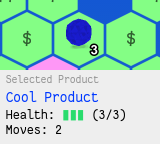
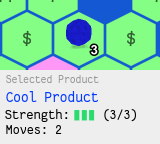
rehauled market onboarding, closes #109

Changed region(s): [[0.0312, 0.75, 0.875, 0.8611]]

diff --git a/css/main.css b/css/main.css
@@ -378,7 +378,7 @@ header h1 {
   width: 1px;
   height: 1px;
   background: transparent;
-  box-shadow: 1963px 1319px #FFF , 413px 474px #FFF , 157px 139px #FFF , 485px 1217px #FFF , 820px 854px #FFF , 301px 70px #FFF , 1500px 813px #FFF , 229px 271px #FFF , 1861px 606px #FFF , 882px 374px #FFF , 973px 749px #FFF , 1426px 699px #FFF , 1131px 1971px #FFF , 1193px 604px #FFF , 729px 983px #FFF , 1017px 1164px #FFF , 544px 886px #FFF , 1809px 814px #FFF , 1915px 762px #FFF , 1876px 1901px #FFF , 1031px 116px #FFF , 1562px 1389px #FFF , 1959px 694px #FFF , 130px 716px #FFF , 1899px 1333px #FFF , 731px 1207px #FFF , 1022px 1053px #FFF , 1223px 1163px #FFF , 1441px 1915px #FFF , 1022px 1643px #FFF , 1618px 1953px #FFF , 419px 1647px #FFF , 711px 1490px #FFF , 815px 800px #FFF , 604px 1042px #FFF , 1567px 449px #FFF , 1785px 667px #FFF , 1248px 1988px #FFF , 1599px 601px #FFF , 499px 672px #FFF , 1385px 1032px #FFF , 1189px 190px #FFF , 1998px 1540px #FFF , 168px 651px #FFF , 1888px 1414px #FFF , 366px 1065px #FFF , 1101px 121px #FFF , 578px 209px #FFF , 1843px 690px #FFF , 1129px 1795px #FFF , 1299px 541px #FFF , 1222px 1141px #FFF , 937px 1354px #FFF , 360px 535px #FFF , 1651px 1348px #FFF , 28px 1856px #FFF , 445px 554px #FFF , 1629px 1279px #FFF , 815px 25px #FFF , 1834px 389px #FFF , 1495px 496px #FFF , 1685px 903px #FFF , 42px 638px #FFF , 546px 669px #FFF , 209px 172px #FFF , 1354px 1218px #FFF , 1837px 1912px #FFF , 953px 344px #FFF , 647px 245px #FFF , 1295px 709px #FFF , 173px 1561px #FFF , 1850px 1547px #FFF , 1922px 1456px #FFF , 1704px 1780px #FFF , 437px 920px #FFF , 281px 1518px #FFF , 150px 1303px #FFF , 990px 1349px #FFF , 1989px 3px #FFF , 1663px 1904px #FFF , 1060px 85px #FFF , 1588px 876px #FFF , 50px 880px #FFF , 1223px 1425px #FFF , 1069px 665px #FFF , 1291px 309px #FFF , 917px 1989px #FFF , 915px 1571px #FFF , 1888px 751px #FFF , 1896px 1145px #FFF , 129px 107px #FFF , 1431px 660px #FFF , 394px 680px #FFF , 98px 655px #FFF , 266px 699px #FFF , 1094px 62px #FFF , 1893px 953px #FFF , 1627px 1492px #FFF , 953px 748px #FFF , 400px 1126px #FFF , 798px 730px #FFF , 1317px 1102px #FFF , 1736px 1073px #FFF , 586px 126px #FFF , 1197px 1172px #FFF , 1997px 1265px #FFF , 1222px 1509px #FFF , 1147px 1368px #FFF , 371px 936px #FFF , 282px 45px #FFF , 1853px 561px #FFF , 1340px 1061px #FFF , 888px 121px #FFF , 920px 27px #FFF , 422px 1081px #FFF , 833px 785px #FFF , 1964px 1882px #FFF , 339px 324px #FFF , 1139px 400px #FFF , 1703px 1537px #FFF , 1508px 972px #FFF , 1466px 1567px #FFF , 1938px 1590px #FFF , 779px 941px #FFF , 1704px 403px #FFF , 564px 1241px #FFF , 106px 1773px #FFF , 1483px 264px #FFF , 417px 1784px #FFF , 522px 1766px #FFF , 1983px 1686px #FFF , 464px 45px #FFF , 932px 255px #FFF , 662px 1893px #FFF , 1951px 1259px #FFF , 574px 1245px #FFF , 1167px 1083px #FFF , 167px 1289px #FFF , 848px 1944px #FFF , 537px 366px #FFF , 1536px 972px #FFF , 125px 374px #FFF , 860px 486px #FFF , 1527px 1994px #FFF , 350px 593px #FFF , 1008px 1918px #FFF , 88px 1056px #FFF , 1927px 804px #FFF , 512px 1111px #FFF , 703px 736px #FFF , 1017px 1758px #FFF , 848px 1606px #FFF , 247px 925px #FFF , 152px 616px #FFF , 593px 586px #FFF , 916px 64px #FFF , 111px 1997px #FFF , 1983px 1372px #FFF , 1793px 281px #FFF , 829px 1428px #FFF , 1011px 232px #FFF , 113px 1293px #FFF , 209px 1741px #FFF , 535px 1875px #FFF , 1787px 1859px #FFF , 970px 1064px #FFF , 1001px 287px #FFF , 1916px 1531px #FFF , 552px 1929px #FFF , 1791px 176px #FFF , 1216px 564px #FFF , 1152px 683px #FFF , 1529px 340px #FFF , 147px 482px #FFF , 564px 909px #FFF , 153px 1619px #FFF , 840px 1332px #FFF , 1890px 1335px #FFF , 1007px 1062px #FFF , 1556px 1261px #FFF , 1156px 907px #FFF , 1320px 1495px #FFF , 1089px 1657px #FFF , 568px 1290px #FFF , 392px 415px #FFF , 1971px 1007px #FFF , 430px 1432px #FFF , 1597px 1828px #FFF , 694px 653px #FFF , 571px 104px #FFF , 1935px 1003px #FFF , 1617px 333px #FFF , 787px 990px #FFF , 1392px 1245px #FFF , 431px 694px #FFF , 92px 1584px #FFF , 981px 1964px #FFF , 220px 1925px #FFF , 980px 1840px #FFF , 1917px 331px #FFF , 1598px 39px #FFF , 387px 1448px #FFF , 1447px 710px #FFF , 1259px 96px #FFF , 1906px 551px #FFF , 1424px 1085px #FFF , 742px 1367px #FFF , 853px 1337px #FFF , 1790px 903px #FFF , 702px 202px #FFF , 1486px 785px #FFF , 1832px 604px #FFF , 1977px 702px #FFF , 25px 572px #FFF , 857px 1671px #FFF , 1335px 133px #FFF , 1940px 701px #FFF , 127px 1987px #FFF , 307px 786px #FFF , 647px 1222px #FFF , 784px 1865px #FFF , 679px 1832px #FFF , 1463px 1629px #FFF , 1572px 1055px #FFF , 1384px 297px #FFF , 747px 1987px #FFF , 1692px 934px #FFF , 1792px 1214px #FFF , 1254px 1233px #FFF , 1088px 253px #FFF , 1522px 1836px #FFF , 624px 100px #FFF , 777px 521px #FFF , 624px 1723px #FFF , 187px 9px #FFF , 1406px 370px #FFF , 1249px 1559px #FFF , 328px 963px #FFF , 1012px 1630px #FFF , 1348px 233px #FFF , 1360px 989px #FFF , 91px 343px #FFF , 458px 538px #FFF , 1273px 1385px #FFF , 335px 743px #FFF , 744px 1670px #FFF , 1578px 1742px #FFF , 242px 1765px #FFF , 1273px 1604px #FFF , 1997px 1339px #FFF , 1991px 218px #FFF , 1500px 550px #FFF , 1136px 790px #FFF , 1925px 1207px #FFF , 1693px 1494px #FFF , 1915px 1312px #FFF , 1880px 501px #FFF , 1964px 167px #FFF , 1637px 1752px #FFF , 63px 1253px #FFF , 1366px 1422px #FFF , 309px 364px #FFF , 1454px 454px #FFF , 1718px 205px #FFF , 1748px 830px #FFF , 1032px 749px #FFF , 26px 562px #FFF , 1491px 1924px #FFF , 503px 1123px #FFF , 4px 613px #FFF , 1889px 1012px #FFF , 1942px 574px #FFF , 1873px 75px #FFF , 91px 723px #FFF , 288px 76px #FFF , 134px 1404px #FFF , 1974px 289px #FFF , 1824px 595px #FFF , 1372px 724px #FFF , 205px 1758px #FFF , 1889px 492px #FFF , 1909px 749px #FFF , 32px 1076px #FFF , 1977px 197px #FFF , 1089px 1245px #FFF , 762px 717px #FFF , 1761px 1305px #FFF , 211px 1651px #FFF , 537px 721px #FFF , 74px 946px #FFF , 1306px 889px #FFF , 923px 1486px #FFF , 1294px 832px #FFF , 1832px 1775px #FFF , 797px 254px #FFF , 447px 821px #FFF , 22px 363px #FFF , 682px 1155px #FFF , 1256px 147px #FFF , 804px 98px #FFF , 1113px 1504px #FFF , 488px 849px #FFF , 342px 652px #FFF , 760px 1724px #FFF , 843px 1299px #FFF , 463px 1009px #FFF , 103px 770px #FFF , 1865px 740px #FFF , 1278px 1335px #FFF , 1393px 497px #FFF , 1084px 1744px #FFF , 1847px 205px #FFF , 1855px 1916px #FFF , 360px 68px #FFF , 467px 1103px #FFF , 146px 1277px #FFF , 1959px 1038px #FFF , 1040px 1403px #FFF , 247px 1117px #FFF , 761px 617px #FFF , 893px 1514px #FFF , 529px 84px #FFF , 1565px 212px #FFF , 1565px 1698px #FFF , 1543px 984px #FFF , 259px 26px #FFF , 1567px 1349px #FFF , 435px 272px #FFF , 480px 699px #FFF , 1936px 1400px #FFF , 830px 1039px #FFF , 1970px 761px #FFF , 1209px 1587px #FFF , 603px 294px #FFF , 796px 1600px #FFF , 1914px 266px #FFF , 1125px 233px #FFF , 743px 720px #FFF , 454px 759px #FFF , 1649px 1062px #FFF , 780px 1028px #FFF , 704px 1128px #FFF , 1588px 249px #FFF , 3px 1090px #FFF , 1994px 1573px #FFF , 1585px 84px #FFF , 804px 1591px #FFF , 612px 1346px #FFF , 1343px 1638px #FFF , 1719px 153px #FFF , 972px 1220px #FFF , 586px 362px #FFF , 824px 630px #FFF , 1364px 683px #FFF , 1086px 616px #FFF , 1878px 605px #FFF , 767px 310px #FFF , 511px 86px #FFF , 1376px 988px #FFF , 639px 902px #FFF , 443px 868px #FFF , 743px 1998px #FFF , 1655px 1058px #FFF , 781px 640px #FFF , 584px 1780px #FFF , 321px 157px #FFF , 644px 1960px #FFF , 868px 1763px #FFF , 1031px 76px #FFF , 1635px 898px #FFF , 556px 1441px #FFF , 184px 415px #FFF , 917px 1588px #FFF , 1895px 538px #FFF , 540px 363px #FFF , 1127px 1079px #FFF , 143px 276px #FFF , 1466px 20px #FFF , 1076px 1535px #FFF , 1177px 1485px #FFF , 1050px 1911px #FFF , 174px 87px #FFF , 1125px 1358px #FFF , 70px 1937px #FFF , 393px 790px #FFF , 492px 1797px #FFF , 1353px 92px #FFF , 1805px 539px #FFF , 1238px 1670px #FFF , 190px 1431px #FFF , 1591px 213px #FFF , 745px 108px #FFF , 1746px 878px #FFF , 192px 118px #FFF , 308px 672px #FFF , 1040px 1289px #FFF , 1638px 1070px #FFF , 171px 420px #FFF , 926px 1728px #FFF , 1752px 1409px #FFF , 1648px 1117px #FFF , 293px 1439px #FFF , 544px 1439px #FFF , 167px 1527px #FFF , 763px 1536px #FFF , 1739px 1810px #FFF , 1977px 444px #FFF , 1194px 716px #FFF , 280px 1213px #FFF , 375px 1685px #FFF , 1727px 746px #FFF , 514px 1990px #FFF , 943px 1406px #FFF , 10px 847px #FFF , 1928px 1406px #FFF , 138px 1054px #FFF , 1615px 1031px #FFF , 264px 73px #FFF , 1800px 1331px #FFF , 1159px 1169px #FFF , 1086px 919px #FFF , 1233px 692px #FFF , 1054px 1967px #FFF , 393px 580px #FFF , 1359px 1935px #FFF , 476px 1316px #FFF , 1671px 1118px #FFF , 1460px 1894px #FFF , 367px 358px #FFF , 1524px 1443px #FFF , 1254px 922px #FFF , 1169px 20px #FFF , 1702px 1209px #FFF , 1415px 278px #FFF , 811px 515px #FFF , 649px 1655px #FFF , 1791px 334px #FFF , 1605px 852px #FFF , 877px 187px #FFF , 571px 318px #FFF , 1236px 279px #FFF , 1879px 1605px #FFF , 350px 1325px #FFF , 1283px 1202px #FFF , 775px 1037px #FFF , 1767px 1837px #FFF , 1575px 1029px #FFF , 500px 1860px #FFF , 1345px 1025px #FFF , 1505px 1918px #FFF , 1414px 821px #FFF , 854px 700px #FFF , 1439px 949px #FFF , 1671px 1013px #FFF , 1630px 1172px #FFF , 58px 1975px #FFF , 1946px 1996px #FFF , 1853px 1678px #FFF , 1333px 1664px #FFF , 1091px 1098px #FFF , 1769px 50px #FFF , 1324px 531px #FFF , 733px 632px #FFF , 601px 1835px #FFF , 1692px 1533px #FFF , 313px 852px #FFF , 1946px 322px #FFF , 1244px 1288px #FFF , 588px 1704px #FFF , 1332px 147px #FFF , 401px 1297px #FFF , 457px 1352px #FFF , 753px 1779px #FFF , 1064px 1843px #FFF , 662px 515px #FFF , 144px 1452px #FFF , 1465px 91px #FFF , 1287px 41px #FFF , 482px 704px #FFF , 1968px 1659px #FFF , 1647px 1460px #FFF , 1508px 1254px #FFF , 72px 1182px #FFF , 1019px 1657px #FFF , 64px 961px #FFF , 1714px 1016px #FFF , 715px 1820px #FFF , 1508px 1968px #FFF , 640px 1013px #FFF , 248px 509px #FFF , 1719px 1229px #FFF , 668px 1069px #FFF , 1862px 781px #FFF , 1648px 752px #FFF , 1685px 382px #FFF , 33px 656px #FFF , 943px 1317px #FFF , 1182px 810px #FFF , 539px 1647px #FFF , 1610px 1810px #FFF , 416px 1623px #FFF , 1281px 669px #FFF , 1968px 256px #FFF , 301px 539px #FFF , 91px 908px #FFF , 1315px 533px #FFF , 1317px 1268px #FFF , 288px 305px #FFF , 278px 414px #FFF , 467px 1307px #FFF , 1817px 1292px #FFF , 258px 337px #FFF , 1305px 1759px #FFF , 1019px 1213px #FFF , 762px 1278px #FFF , 1888px 808px #FFF , 428px 355px #FFF , 1122px 1722px #FFF , 77px 581px #FFF , 1251px 470px #FFF , 1899px 1119px #FFF , 1120px 1569px #FFF , 180px 1072px #FFF , 1924px 947px #FFF , 121px 361px #FFF , 406px 473px #FFF , 1524px 986px #FFF , 131px 284px #FFF , 1565px 1396px #FFF , 1388px 406px #FFF , 577px 1619px #FFF , 1145px 646px #FFF , 1413px 1945px #FFF , 1285px 1523px #FFF , 1139px 532px #FFF , 150px 744px #FFF , 1677px 1457px #FFF , 1679px 1034px #FFF , 39px 1745px #FFF , 811px 1494px #FFF , 1368px 1379px #FFF , 239px 463px #FFF , 904px 1010px #FFF , 456px 1766px #FFF , 1466px 364px #FFF , 242px 1892px #FFF , 178px 1650px #FFF , 1365px 1474px #FFF , 392px 1272px #FFF , 888px 468px #FFF , 1079px 1305px #FFF , 958px 322px #FFF , 1051px 63px #FFF , 1935px 1585px #FFF , 1977px 839px #FFF , 1695px 780px #FFF , 724px 1981px #FFF , 1903px 705px #FFF , 7px 529px #FFF , 1665px 1530px #FFF , 1832px 1439px #FFF , 656px 994px #FFF , 816px 717px #FFF , 126px 219px #FFF , 1265px 1079px #FFF , 447px 285px #FFF , 1405px 986px #FFF , 250px 1705px #FFF , 823px 297px #FFF , 1942px 41px #FFF , 315px 1781px #FFF , 1670px 295px #FFF , 1615px 1437px #FFF , 1895px 1466px #FFF , 1045px 24px #FFF , 1359px 1582px #FFF , 1258px 880px #FFF , 1291px 524px #FFF , 1912px 111px #FFF , 1795px 378px #FFF , 300px 1730px #FFF , 71px 1616px #FFF , 300px 849px #FFF , 169px 550px #FFF , 864px 444px #FFF , 677px 350px #FFF , 564px 1704px #FFF , 1564px 1898px #FFF , 1619px 1258px #FFF , 826px 1217px #FFF , 1898px 201px #FFF , 124px 1190px #FFF , 322px 1621px #FFF , 291px 1476px #FFF , 1700px 1483px #FFF , 260px 1342px #FFF , 748px 1358px #FFF , 872px 829px #FFF , 1997px 1177px #FFF , 1092px 313px #FFF , 1936px 325px #FFF , 304px 1182px #FFF , 1706px 1549px #FFF , 1998px 1746px #FFF , 1016px 1842px #FFF , 1406px 1766px #FFF , 580px 419px #FFF , 1681px 1587px #FFF , 192px 182px #FFF , 1277px 1205px #FFF , 30px 1769px #FFF , 872px 1320px #FFF , 1234px 1265px #FFF , 1614px 1577px #FFF , 1657px 1723px #FFF , 995px 1552px #FFF , 1000px 1742px #FFF , 1050px 868px #FFF , 60px 550px #FFF , 218px 1991px #FFF , 1086px 1267px #FFF , 73px 19px #FFF , 1173px 264px #FFF , 1668px 1682px #FFF , 1318px 1626px #FFF , 1192px 1928px #FFF , 168px 1846px #FFF , 1450px 463px #FFF , 805px 1322px #FFF , 627px 894px #FFF , 1756px 1323px #FFF , 252px 946px #FFF , 1063px 1021px #FFF , 1663px 819px #FFF , 40px 898px #FFF , 1046px 553px #FFF , 51px 526px #FFF , 1572px 1530px #FFF , 186px 300px #FFF , 866px 884px #FFF , 947px 1264px #FFF , 1670px 903px #FFF , 600px 1193px #FFF , 85px 1712px #FFF , 1752px 1690px #FFF , 1132px 1596px #FFF , 469px 1951px #FFF , 1005px 1649px #FFF , 1960px 104px #FFF , 1319px 1029px #FFF , 890px 1685px #FFF , 1594px 728px #FFF , 1817px 1129px #FFF , 1905px 1264px #FFF , 1261px 1029px #FFF , 1780px 1054px #FFF , 100px 678px #FFF , 1900px 953px #FFF , 1930px 361px #FFF , 502px 371px #FFF , 1585px 1205px #FFF , 1582px 161px #FFF , 1024px 538px #FFF , 970px 675px #FFF , 482px 489px #FFF , 1252px 404px #FFF , 333px 64px #FFF , 1159px 1761px #FFF , 1280px 1217px #FFF , 1411px 206px #FFF , 993px 660px #FFF , 693px 1529px #FFF , 1536px 793px #FFF , 926px 970px #FFF , 355px 705px #FFF , 1749px 183px #FFF , 801px 428px #FFF , 1233px 207px #FFF , 1427px 17px #FFF , 1688px 719px #FFF , 382px 746px #FFF , 902px 823px #FFF , 557px 88px #FFF , 1751px 1246px #FFF , 1804px 1255px #FFF , 347px 726px #FFF , 534px 620px #FFF , 94px 1712px #FFF , 597px 1317px #FFF , 494px 849px #FFF , 758px 1678px #FFF , 641px 646px #FFF , 223px 45px #FFF , 1588px 1350px #FFF , 773px 1183px #FFF , 63px 1927px #FFF , 94px 1374px #FFF , 1272px 940px #FFF , 1770px 618px #FFF , 1410px 426px #FFF; }
+  box-shadow: 1773px 909px #FFF , 573px 15px #FFF , 1936px 793px #FFF , 1799px 15px #FFF , 196px 1023px #FFF , 1502px 1383px #FFF , 1146px 390px #FFF , 1077px 823px #FFF , 1038px 678px #FFF , 1595px 399px #FFF , 1292px 1781px #FFF , 1117px 1055px #FFF , 1995px 104px #FFF , 1009px 791px #FFF , 125px 482px #FFF , 1253px 405px #FFF , 286px 1552px #FFF , 707px 1774px #FFF , 239px 1254px #FFF , 1861px 1918px #FFF , 1188px 1720px #FFF , 1656px 657px #FFF , 1222px 481px #FFF , 308px 1654px #FFF , 523px 1412px #FFF , 976px 80px #FFF , 679px 559px #FFF , 1262px 316px #FFF , 1962px 50px #FFF , 1871px 90px #FFF , 1848px 1458px #FFF , 1642px 275px #FFF , 1849px 1962px #FFF , 364px 1592px #FFF , 1894px 1558px #FFF , 464px 383px #FFF , 1260px 947px #FFF , 1574px 1436px #FFF , 1881px 1550px #FFF , 1641px 300px #FFF , 190px 1551px #FFF , 1164px 305px #FFF , 1635px 421px #FFF , 232px 1872px #FFF , 744px 1744px #FFF , 46px 256px #FFF , 686px 1405px #FFF , 1153px 1166px #FFF , 1523px 338px #FFF , 542px 1338px #FFF , 630px 1040px #FFF , 902px 1814px #FFF , 19px 1747px #FFF , 1302px 793px #FFF , 590px 571px #FFF , 958px 1582px #FFF , 1181px 354px #FFF , 720px 847px #FFF , 390px 1002px #FFF , 1906px 105px #FFF , 755px 1183px #FFF , 1965px 1463px #FFF , 781px 647px #FFF , 1532px 606px #FFF , 12px 1422px #FFF , 186px 1310px #FFF , 664px 1440px #FFF , 1452px 423px #FFF , 1734px 706px #FFF , 879px 263px #FFF , 3px 1357px #FFF , 150px 1214px #FFF , 1615px 826px #FFF , 1093px 1357px #FFF , 624px 1370px #FFF , 536px 716px #FFF , 578px 231px #FFF , 477px 1862px #FFF , 535px 1084px #FFF , 1118px 19px #FFF , 1957px 129px #FFF , 943px 585px #FFF , 1907px 1813px #FFF , 866px 1048px #FFF , 366px 1419px #FFF , 1793px 1016px #FFF , 850px 715px #FFF , 694px 989px #FFF , 137px 1446px #FFF , 1870px 292px #FFF , 459px 602px #FFF , 570px 329px #FFF , 1697px 1708px #FFF , 24px 234px #FFF , 1281px 506px #FFF , 1886px 649px #FFF , 1604px 1488px #FFF , 1557px 1016px #FFF , 1287px 1731px #FFF , 168px 1288px #FFF , 770px 765px #FFF , 835px 360px #FFF , 111px 986px #FFF , 214px 1248px #FFF , 585px 1290px #FFF , 73px 115px #FFF , 1021px 947px #FFF , 1423px 508px #FFF , 1156px 1813px #FFF , 69px 1786px #FFF , 1338px 1073px #FFF , 1281px 1282px #FFF , 1824px 1051px #FFF , 1163px 1571px #FFF , 1224px 339px #FFF , 1216px 1104px #FFF , 488px 1430px #FFF , 1816px 1523px #FFF , 5px 1103px #FFF , 1234px 1735px #FFF , 1979px 417px #FFF , 1869px 1321px #FFF , 1982px 228px #FFF , 1283px 899px #FFF , 1376px 423px #FFF , 1133px 739px #FFF , 1654px 1270px #FFF , 305px 1100px #FFF , 410px 537px #FFF , 1438px 1791px #FFF , 7px 1280px #FFF , 1419px 1494px #FFF , 891px 142px #FFF , 745px 1891px #FFF , 1509px 851px #FFF , 713px 1258px #FFF , 1942px 790px #FFF , 453px 1321px #FFF , 500px 1325px #FFF , 875px 160px #FFF , 1744px 1756px #FFF , 766px 784px #FFF , 226px 1999px #FFF , 1286px 291px #FFF , 1949px 81px #FFF , 1979px 267px #FFF , 331px 761px #FFF , 1131px 1620px #FFF , 1104px 50px #FFF , 1609px 561px #FFF , 1120px 345px #FFF , 1495px 1482px #FFF , 1855px 1031px #FFF , 813px 785px #FFF , 841px 1961px #FFF , 1571px 356px #FFF , 34px 1036px #FFF , 868px 147px #FFF , 1142px 1690px #FFF , 1622px 422px #FFF , 1445px 1846px #FFF , 1426px 1474px #FFF , 609px 385px #FFF , 1066px 34px #FFF , 864px 99px #FFF , 812px 161px #FFF , 176px 632px #FFF , 663px 1316px #FFF , 1396px 1358px #FFF , 183px 1242px #FFF , 1345px 1113px #FFF , 1463px 1276px #FFF , 889px 1470px #FFF , 694px 780px #FFF , 485px 751px #FFF , 120px 125px #FFF , 1290px 1194px #FFF , 28px 1114px #FFF , 929px 928px #FFF , 1872px 1511px #FFF , 743px 894px #FFF , 382px 367px #FFF , 1034px 1126px #FFF , 1330px 1566px #FFF , 477px 1276px #FFF , 1485px 1799px #FFF , 1673px 1253px #FFF , 866px 1019px #FFF , 501px 1356px #FFF , 690px 859px #FFF , 1169px 355px #FFF , 1826px 1122px #FFF , 96px 1072px #FFF , 480px 1360px #FFF , 492px 1365px #FFF , 1416px 1326px #FFF , 1689px 580px #FFF , 201px 919px #FFF , 1335px 1152px #FFF , 767px 36px #FFF , 1430px 873px #FFF , 1964px 1964px #FFF , 1508px 664px #FFF , 10px 1446px #FFF , 1968px 1444px #FFF , 85px 1413px #FFF , 1203px 968px #FFF , 1711px 429px #FFF , 1251px 1565px #FFF , 1365px 1378px #FFF , 428px 1605px #FFF , 453px 578px #FFF , 1654px 8px #FFF , 772px 744px #FFF , 897px 698px #FFF , 294px 1878px #FFF , 229px 1506px #FFF , 585px 1684px #FFF , 1656px 338px #FFF , 1428px 462px #FFF , 1549px 563px #FFF , 1943px 527px #FFF , 201px 1757px #FFF , 1989px 405px #FFF , 1592px 1084px #FFF , 14px 1977px #FFF , 649px 432px #FFF , 534px 1980px #FFF , 314px 38px #FFF , 1840px 66px #FFF , 201px 1408px #FFF , 1113px 1371px #FFF , 1319px 1649px #FFF , 1095px 1041px #FFF , 147px 401px #FFF , 1426px 1949px #FFF , 1796px 1524px #FFF , 1880px 61px #FFF , 1633px 1954px #FFF , 637px 696px #FFF , 1509px 889px #FFF , 1942px 1412px #FFF , 381px 419px #FFF , 1149px 1230px #FFF , 1161px 1253px #FFF , 1294px 1191px #FFF , 1005px 1174px #FFF , 1537px 849px #FFF , 58px 84px #FFF , 1214px 50px #FFF , 1930px 1692px #FFF , 1173px 1864px #FFF , 1618px 892px #FFF , 741px 1417px #FFF , 1073px 1642px #FFF , 1571px 108px #FFF , 1769px 527px #FFF , 270px 565px #FFF , 789px 425px #FFF , 879px 277px #FFF , 1586px 211px #FFF , 1818px 274px #FFF , 1157px 737px #FFF , 1541px 1621px #FFF , 1119px 1284px #FFF , 1479px 1655px #FFF , 1890px 883px #FFF , 1316px 604px #FFF , 1258px 1287px #FFF , 572px 162px #FFF , 771px 1855px #FFF , 663px 45px #FFF , 778px 1648px #FFF , 1158px 1747px #FFF , 1093px 14px #FFF , 1385px 775px #FFF , 109px 202px #FFF , 277px 752px #FFF , 770px 1877px #FFF , 1202px 687px #FFF , 1453px 102px #FFF , 511px 1181px #FFF , 227px 266px #FFF , 220px 179px #FFF , 624px 246px #FFF , 1733px 317px #FFF , 1896px 165px #FFF , 1044px 995px #FFF , 1587px 919px #FFF , 982px 1296px #FFF , 1044px 1196px #FFF , 1426px 792px #FFF , 1287px 1075px #FFF , 1147px 666px #FFF , 1853px 1575px #FFF , 1862px 678px #FFF , 362px 1692px #FFF , 228px 1656px #FFF , 474px 1255px #FFF , 921px 1317px #FFF , 235px 266px #FFF , 1931px 781px #FFF , 220px 36px #FFF , 1413px 210px #FFF , 656px 1162px #FFF , 185px 410px #FFF , 240px 208px #FFF , 90px 166px #FFF , 1101px 901px #FFF , 1799px 231px #FFF , 260px 1834px #FFF , 1264px 459px #FFF , 1181px 973px #FFF , 1517px 374px #FFF , 1728px 1224px #FFF , 777px 1147px #FFF , 411px 650px #FFF , 1400px 505px #FFF , 1608px 959px #FFF , 1352px 386px #FFF , 238px 87px #FFF , 1753px 1132px #FFF , 1672px 636px #FFF , 545px 546px #FFF , 1590px 182px #FFF , 815px 916px #FFF , 1926px 813px #FFF , 1031px 372px #FFF , 1473px 464px #FFF , 1109px 392px #FFF , 116px 1109px #FFF , 27px 1998px #FFF , 1970px 1930px #FFF , 286px 248px #FFF , 1087px 1371px #FFF , 859px 603px #FFF , 187px 1055px #FFF , 1741px 491px #FFF , 442px 689px #FFF , 1277px 1408px #FFF , 17px 1828px #FFF , 974px 255px #FFF , 494px 330px #FFF , 975px 711px #FFF , 862px 47px #FFF , 1336px 939px #FFF , 1338px 1508px #FFF , 1305px 657px #FFF , 732px 1942px #FFF , 702px 516px #FFF , 1533px 1490px #FFF , 46px 1889px #FFF , 79px 1707px #FFF , 1004px 1653px #FFF , 1540px 297px #FFF , 462px 884px #FFF , 1205px 1059px #FFF , 1393px 1245px #FFF , 692px 1869px #FFF , 155px 1172px #FFF , 939px 1807px #FFF , 1494px 80px #FFF , 1906px 1493px #FFF , 1585px 206px #FFF , 1547px 1487px #FFF , 505px 1314px #FFF , 1584px 125px #FFF , 1635px 40px #FFF , 1543px 1091px #FFF , 1566px 332px #FFF , 1039px 1248px #FFF , 973px 1470px #FFF , 1168px 219px #FFF , 203px 1766px #FFF , 1574px 198px #FFF , 1191px 1402px #FFF , 1635px 184px #FFF , 1826px 1080px #FFF , 826px 529px #FFF , 867px 1582px #FFF , 1493px 1381px #FFF , 816px 725px #FFF , 1975px 182px #FFF , 1057px 729px #FFF , 1261px 1051px #FFF , 564px 1335px #FFF , 347px 1198px #FFF , 1722px 1519px #FFF , 1px 1906px #FFF , 1084px 1001px #FFF , 1757px 757px #FFF , 987px 1363px #FFF , 161px 1264px #FFF , 1185px 830px #FFF , 1638px 648px #FFF , 1313px 53px #FFF , 1387px 833px #FFF , 1415px 1577px #FFF , 906px 984px #FFF , 884px 613px #FFF , 579px 1128px #FFF , 790px 1640px #FFF , 1606px 638px #FFF , 774px 465px #FFF , 498px 147px #FFF , 1474px 1897px #FFF , 1185px 413px #FFF , 466px 486px #FFF , 373px 969px #FFF , 1431px 891px #FFF , 220px 1768px #FFF , 1810px 850px #FFF , 639px 1921px #FFF , 526px 309px #FFF , 1049px 815px #FFF , 882px 1513px #FFF , 973px 996px #FFF , 1210px 221px #FFF , 1549px 1082px #FFF , 1088px 1738px #FFF , 1262px 160px #FFF , 567px 1883px #FFF , 1342px 428px #FFF , 670px 764px #FFF , 1182px 629px #FFF , 1644px 154px #FFF , 1724px 1616px #FFF , 1221px 761px #FFF , 1923px 1011px #FFF , 1542px 838px #FFF , 1606px 121px #FFF , 546px 302px #FFF , 532px 691px #FFF , 1758px 1513px #FFF , 1781px 173px #FFF , 709px 1048px #FFF , 1365px 974px #FFF , 245px 1804px #FFF , 167px 156px #FFF , 83px 3px #FFF , 98px 837px #FFF , 940px 858px #FFF , 891px 983px #FFF , 1688px 1874px #FFF , 300px 1177px #FFF , 605px 1180px #FFF , 572px 1412px #FFF , 1377px 805px #FFF , 602px 1788px #FFF , 1000px 1265px #FFF , 1778px 601px #FFF , 954px 602px #FFF , 164px 1147px #FFF , 1172px 1528px #FFF , 1306px 1389px #FFF , 159px 947px #FFF , 984px 593px #FFF , 848px 960px #FFF , 1605px 1893px #FFF , 612px 1095px #FFF , 1379px 1212px #FFF , 1216px 1845px #FFF , 709px 1546px #FFF , 625px 886px #FFF , 804px 311px #FFF , 720px 1401px #FFF , 588px 1777px #FFF , 1476px 459px #FFF , 1773px 1546px #FFF , 1623px 1783px #FFF , 1055px 300px #FFF , 1253px 644px #FFF , 1936px 1574px #FFF , 951px 1538px #FFF , 898px 1019px #FFF , 205px 1082px #FFF , 109px 883px #FFF , 1348px 839px #FFF , 762px 1602px #FFF , 868px 1853px #FFF , 672px 783px #FFF , 1478px 1349px #FFF , 1860px 1807px #FFF , 1586px 1677px #FFF , 1553px 1433px #FFF , 49px 1451px #FFF , 1803px 497px #FFF , 1334px 1994px #FFF , 358px 186px #FFF , 1979px 1530px #FFF , 1789px 981px #FFF , 214px 55px #FFF , 1175px 1133px #FFF , 500px 435px #FFF , 1499px 540px #FFF , 1351px 1460px #FFF , 60px 1628px #FFF , 1136px 234px #FFF , 500px 1504px #FFF , 624px 831px #FFF , 661px 1790px #FFF , 1812px 439px #FFF , 289px 1301px #FFF , 1283px 687px #FFF , 653px 1634px #FFF , 610px 675px #FFF , 1075px 907px #FFF , 1382px 1367px #FFF , 1551px 1241px #FFF , 489px 307px #FFF , 1496px 818px #FFF , 93px 225px #FFF , 1891px 1299px #FFF , 593px 244px #FFF , 507px 1757px #FFF , 625px 796px #FFF , 1016px 1124px #FFF , 734px 570px #FFF , 187px 285px #FFF , 1437px 1972px #FFF , 478px 334px #FFF , 569px 1712px #FFF , 1910px 111px #FFF , 1120px 1743px #FFF , 1163px 161px #FFF , 96px 1874px #FFF , 498px 469px #FFF , 1452px 245px #FFF , 1243px 1889px #FFF , 1506px 1530px #FFF , 830px 1970px #FFF , 1798px 1570px #FFF , 28px 1954px #FFF , 1950px 1867px #FFF , 458px 1339px #FFF , 1966px 1646px #FFF , 1678px 823px #FFF , 476px 606px #FFF , 997px 82px #FFF , 1152px 376px #FFF , 1886px 149px #FFF , 438px 1915px #FFF , 1177px 1427px #FFF , 388px 701px #FFF , 1403px 210px #FFF , 1154px 168px #FFF , 1918px 2px #FFF , 1579px 498px #FFF , 1062px 919px #FFF , 1178px 1784px #FFF , 1882px 1141px #FFF , 82px 1783px #FFF , 516px 1915px #FFF , 1746px 762px #FFF , 1976px 1599px #FFF , 1052px 1425px #FFF , 1183px 1571px #FFF , 992px 30px #FFF , 1566px 1435px #FFF , 115px 475px #FFF , 486px 378px #FFF , 1049px 462px #FFF , 123px 1088px #FFF , 701px 897px #FFF , 466px 783px #FFF , 432px 1791px #FFF , 1492px 1426px #FFF , 1908px 1199px #FFF , 502px 388px #FFF , 470px 1634px #FFF , 54px 1157px #FFF , 1328px 1200px #FFF , 168px 1949px #FFF , 1888px 768px #FFF , 917px 1396px #FFF , 497px 820px #FFF , 1706px 287px #FFF , 1509px 1508px #FFF , 1513px 884px #FFF , 551px 547px #FFF , 922px 441px #FFF , 115px 845px #FFF , 774px 158px #FFF , 502px 1361px #FFF , 821px 1863px #FFF , 22px 793px #FFF , 1731px 593px #FFF , 1018px 805px #FFF , 910px 1296px #FFF , 1012px 1928px #FFF , 334px 1387px #FFF , 331px 807px #FFF , 1181px 123px #FFF , 1297px 189px #FFF , 1325px 406px #FFF , 610px 938px #FFF , 1855px 222px #FFF , 925px 1725px #FFF , 1929px 1205px #FFF , 1196px 1234px #FFF , 87px 1586px #FFF , 719px 1096px #FFF , 1255px 14px #FFF , 1305px 1807px #FFF , 1213px 226px #FFF , 1974px 1399px #FFF , 1491px 654px #FFF , 1660px 884px #FFF , 356px 1388px #FFF , 563px 733px #FFF , 200px 1533px #FFF , 1189px 1381px #FFF , 1916px 1580px #FFF , 66px 453px #FFF , 1197px 1769px #FFF , 1613px 201px #FFF , 864px 1437px #FFF , 1924px 458px #FFF , 417px 1923px #FFF , 327px 1167px #FFF , 678px 1217px #FFF , 1849px 1285px #FFF , 1856px 235px #FFF , 1917px 1197px #FFF , 836px 1023px #FFF , 898px 1877px #FFF , 619px 1010px #FFF , 771px 40px #FFF , 926px 1086px #FFF , 1927px 544px #FFF , 275px 137px #FFF , 443px 140px #FFF , 1154px 1041px #FFF , 1041px 622px #FFF , 1826px 1829px #FFF , 983px 586px #FFF , 57px 1500px #FFF , 101px 266px #FFF , 1535px 222px #FFF , 1755px 947px #FFF , 1898px 883px #FFF , 1159px 426px #FFF , 534px 1739px #FFF , 47px 859px #FFF , 634px 1936px #FFF , 702px 1438px #FFF , 1118px 1127px #FFF , 1888px 1897px #FFF , 1992px 840px #FFF , 889px 148px #FFF , 1423px 1523px #FFF , 35px 1420px #FFF , 1714px 683px #FFF , 103px 160px #FFF , 620px 1557px #FFF , 1136px 278px #FFF , 57px 905px #FFF , 1195px 411px #FFF , 1519px 747px #FFF , 1612px 764px #FFF , 435px 1441px #FFF , 581px 612px #FFF , 545px 1445px #FFF , 972px 740px #FFF , 1289px 893px #FFF , 330px 530px #FFF , 522px 1656px #FFF , 1389px 1109px #FFF , 618px 568px #FFF , 257px 407px #FFF , 26px 300px #FFF , 1162px 923px #FFF , 1029px 1466px #FFF , 1254px 209px #FFF , 999px 1958px #FFF , 1496px 918px #FFF , 1998px 1447px #FFF , 1480px 1641px #FFF , 606px 586px #FFF , 603px 1673px #FFF , 1038px 1792px #FFF , 155px 825px #FFF , 1382px 1749px #FFF , 1883px 561px #FFF , 1145px 700px #FFF , 147px 1990px #FFF , 1664px 457px #FFF , 1765px 1662px #FFF , 141px 94px #FFF , 277px 180px #FFF , 377px 1024px #FFF , 201px 420px #FFF , 1140px 241px #FFF , 1091px 1120px #FFF , 1534px 1186px #FFF , 672px 527px #FFF , 218px 981px #FFF , 1356px 1873px #FFF , 1538px 1653px #FFF , 1621px 1429px #FFF; }
 
 .background {
   background: #000000;
@@ -1365,7 +1365,8 @@ header h1 {
 
 .alert .tasks {
   font-size: 0.8em; }
-.alert em {
+
+.alert em, .market-tutorial em {
   background: #515f78;
   padding: 0.1em 0.3em;
   border-radius: 0.2em;
@@ -1602,17 +1603,18 @@ header h1 {
   line-height: 1.4;
   background: #e8e8e8;
   color: #111; }
-  .alert-mentor em {
-    color: #fff; }
-    .alert-mentor em.ui-item {
-      background: #3f84fb; }
-    .alert-mentor em.special {
-      background: #ff0000;
-      background: -moz-linear-gradient(-45deg, #ff0000 0%, #ffff00 15%, #00ff00 30%, #00ffff 50%, #0000ff 65%, #ff00ff 80%, #ff0000 100%);
-      background: -webkit-linear-gradient(-45deg, #ff0000 0%, #ffff00 15%, #00ff00 30%, #00ffff 50%, #0000ff 65%, #ff00ff 80%, #ff0000 100%);
-      background: linear-gradient(135deg, #ff0000 0%, #ffff00 15%, #00ff00 30%, #00ffff 50%, #0000ff 65%, #ff00ff 80%, #ff0000 100%);
-      filter: progid:DXImageTransform.Microsoft.gradient( startColorstr='#ff0000', endColorstr='#ff0000',GradientType=1 );
-      text-shadow: 1px 1px 2px rgba(0, 0, 0, 0.4); }
+
+.alert-mentor em, .market-tutorial em {
+  color: #fff; }
+  .alert-mentor em.ui-item, .market-tutorial em.ui-item {
+    background: #3f84fb; }
+  .alert-mentor em.special, .market-tutorial em.special {
+    background: #ff0000;
+    background: -moz-linear-gradient(-45deg, #ff0000 0%, #ffff00 15%, #00ff00 30%, #00ffff 50%, #0000ff 65%, #ff00ff 80%, #ff0000 100%);
+    background: -webkit-linear-gradient(-45deg, #ff0000 0%, #ffff00 15%, #00ff00 30%, #00ffff 50%, #0000ff 65%, #ff00ff 80%, #ff0000 100%);
+    background: linear-gradient(135deg, #ff0000 0%, #ffff00 15%, #00ff00 30%, #00ffff 50%, #0000ff 65%, #ff00ff 80%, #ff0000 100%);
+    filter: progid:DXImageTransform.Microsoft.gradient( startColorstr='#ff0000', endColorstr='#ff0000',GradientType=1 );
+    text-shadow: 1px 1px 2px rgba(0, 0, 0, 0.4); }
 
 .mentor-avatar {
   width: 220px;
@@ -1821,6 +1823,26 @@ header h1 {
     clear: both;
     overflow: hidden;
     margin: 2em 0; }
+
+.market-tutorial {
+  display: none;
+  position: fixed;
+  bottom: 1em;
+  background: beige;
+  width: 40em;
+  right: 2em;
+  border-radius: 0.4em;
+  box-shadow: 3px 3px 0px rgba(0, 0, 0, 0.2);
+  cursor: pointer; }
+  .market-tutorial p {
+    font-size: 1.2em;
+    margin: 0;
+    padding: 1em; }
+  .market-tutorial img {
+    float: left;
+    width: 120px;
+    margin-right: 1em;
+    border-radius: 0.4em 0 0 0.4em; }
 
 .popups {
   display: none;

diff --git a/app/states/Market.js b/app/states/Market.js
@@ -16,6 +16,19 @@ import MarketView from 'views/Market';
 import Confirm from 'views/alerts/Confirm';
 import Alert from 'views/alerts/Alert';
 
+const ONBOARDING = {
+  welcome: '<img src="assets/onboarding/market_piece.png"><p>Welcome to <em class="special">The Market</em>! This is the magical place where you fight for <em class="special">market share</em>. To start, <em class="ui-item">click</em> one of your products (the blue sphere).</p>',
+  product: '<img src="assets/onboarding/market_product.png"><p>This blue sphere is the product you just launched. Their <em class="concept">moves</em> and <em class="concept">strength</em> depend on the points you chose. <em class="ui-item">Click-and-hold</em> it to pick it up.</p>',
+  movement: '<img src="assets/onboarding/market_movement.gif"><p>To move a product, <em class="ui-item">drag</em> it and then <em class="ui-item">drop</em> it onto a highlighted tile.</p>',
+  capture: '<img src="assets/onboarding/market_capture.gif"><p>It\'s your turn again. <em class="ui-item">Double-click</em> on the product to <em class="concept">capture</em> the <em class="special">market share</em> tile underneath.</p>',
+  tiles: '<img src="assets/onboarding/market_share.png"><p>Congrats! You captured some <em class="special">market share</em>. This will increase your product\'s <em class="concept">revenue</em>.</p>',
+  tiles_more: '<img src="assets/onboarding/market_share.png"><p>It\'s your turn again. Keep capturing more <em class="special">market share</em>!</p>',
+  combat: '<img src="assets/onboarding/market_combat.gif"><p>You might come head-to-head with a competing product. You can <em class="concept">fight</em> it by <em class="ui-item">dragging</em> your product on top of it.</p>',
+  influencers: '<img src="assets/onboarding/market_influencer.png"><p>One last thing: you might encounter <em class="special">influencer</em> tiles. Capture these for big revenue bonuses!</p>',
+  end: '<p>That\'s about it! You have a 10 turns or until you or your competitor is wiped out to capture as much <em class="special">market share</em> as you can. Good luck!</p>'
+};
+
+
 
 class TheMarket extends Phaser.State {
   constructor(game, player, debug) {
@@ -66,19 +79,41 @@ class TheMarket extends Phaser.State {
       }
     });
 
+    this.onboardingMessage = ONBOARDING.welcome;
+
     // re-render the UI whenever a tile is selected or captured
     Tile.onSingleClick.add(this.renderUI, this);
-    Tile.onCapture.add(this.renderUI, this);
+    Tile.onCapture.add(() => {
+      if (this.onboardingMessage === ONBOARDING.capture) {
+        this.onboardingMessage = ONBOARDING.tiles;
+      }
+      this.renderUI();
+    }, this);
     Tile.onCapture.add(this.captureNotice, this);
     market.board.onCombat = this.combatNotice.bind(this);
+    market.board._onDragStart = () => {
+      if (this.onboardingMessage === ONBOARDING.product) {
+        this.onboardingMessage = ONBOARDING.movement;
+      }
+      this.renderUI(market.board.selectedTile);
+    };
     market.onStartTurn = () => {
+      if (market.currentPlayer.human) {
+        if (this.onboardingMessage === ONBOARDING.movement) {
+          this.onboardingMessage = ONBOARDING.capture;
+        } else if (this.onboardingMessage === ONBOARDING.tiles) {
+          this.onboardingMessage = ONBOARDING.tiles_more;
+        } else if (this.onboardingMessage === ONBOARDING.tiles_more) {
+          this.onboardingMessage = ONBOARDING.combat;
+        } else if (this.onboardingMessage === ONBOARDING.combat) {
+          this.onboardingMessage = ONBOARDING.influencers;
+        } else if (this.onboardingMessage === ONBOARDING.influencers) {
+          this.onboardingMessage = ONBOARDING.end;
+        }
+      }
       this.renderUI(market.board.selectedTile);
     };
     market.startTurn(market.humanPlayer);
-  }
-
-  update() {
-    this.player.onboarder.resolve();
   }
 
   notice(tile, msg, offset) {
@@ -138,6 +173,10 @@ class TheMarket extends Phaser.State {
       t.bonus = t.bonus();
     }
 
+    if (t.pieceClass === 'friendly' && this.onboardingMessage === ONBOARDING.welcome) {
+      this.onboardingMessage = ONBOARDING.product;
+    }
+
     this.view.render({
       human: market.currentPlayer.human,
       competitor: market.aiPlayer.company,
@@ -147,6 +186,11 @@ class TheMarket extends Phaser.State {
       totalTurns: market.totalTurns,
       turnsPercent: (market.totalTurns - market.turnsLeft)/market.totalTurns * 100
     });
+
+    if (!this.player.seenMarket) {
+      $('.market-tutorial').html(this.onboardingMessage);
+      $('.market-tutorial').show();
+    }
   }
 
   endGame(reason) {
@@ -174,6 +218,7 @@ class TheMarket extends Phaser.State {
       attrs: { class: 'alert market-ending-alert' }
     });
     view.render({message: reason});
+    this.player.seenMarket = true;
   }
 }
 

diff --git a/app/views/Market.js b/app/views/Market.js
@@ -9,7 +9,7 @@ const helpTemplate = data => `
   <p>The Market is the magical place where your products duke it out with competitors' products for market share.</p>
   <p><img src='assets/onboarding/market_income.png'>The tiles with dollar signs are different pieces of market share of varying income levels.</p>
   <p><img src='assets/onboarding/market_share.png'>Your product's revenue depends on how much market share you can <em class='concept'>capture</em> from The Market.</p>
-  <p><img src='assets/onboarding/market_product.png'>The <em class='concept'>blue spheres</em> on the map represent your products. Their <em class='concept'>health</em> and <em class='concept'>movement</em> are influenced by the Product Designer.</p>
+  <p><img src='assets/onboarding/market_product.png'>The <em class='concept'>blue spheres</em> on the map represent your products. Their <em class='concept'>strength</em> and <em class='concept'>movement</em> are influenced by the Product Designer.</p>
   <p><img src='assets/onboarding/market_movement.gif'>To move a product, <em class='ui-item'>drag</em> it and then <em class='ui-item'>drop</em> it onto a highlighted tile.</p>
   <p><img src='assets/onboarding/market_capture.gif'><em class='ui-item'>Double-click</em> on the product to <em class='concept'>capture</em> the market share tile underneath.</p>
   <p><img src='assets/onboarding/market_combat.gif'><em class='ui-item'>Drag</em> a product onto an enemy product to fight and possibly destroy it.</p>
@@ -47,7 +47,7 @@ const pieceInfoTemplate = tile => `
   <span class="${tile.pieceClass} piece-name">
     ${tile.piece.name ? tile.piece.name : 'Generic Product'}
   </span>
-  <div>Health: ${healthBar(tile.piece.health, tile.piece.maxHealth)} (${tile.piece.health}/${tile.piece.maxHealth})</div>
+  <div>Strength: ${healthBar(tile.piece.health, tile.piece.maxHealth)} (${tile.piece.health}/${tile.piece.maxHealth})</div>
   ${tile.piece.moves === 0 ? '<div class="piece-no-moves">No moves left</div>' : `<div>Moves: ${tile.piece.moves}</div>`}
 </div>`;
 
@@ -81,6 +81,7 @@ const template = data => `
   <div class="human-market-share" style="width:${data.marketShares.human}%"><h1>Your market share: ${data.marketShares.human.toFixed(1)}%</h1></div>
   <div class="ai-market-share" style="width:${data.marketShares.ai}%"><h1>${data.competitor.name}'s market share: ${data.marketShares.ai.toFixed(1)}%</h1></div>
 </div>
+<div class="market-tutorial"></div>
 `;
 
 class Market extends View {

diff --git a/app/market/Board.js b/app/market/Board.js
@@ -13,7 +13,7 @@ import Grid from './Grid';
 import Tile from './Tile';
 import Position from './Position';
 
-const rows = 12;
+const rows = 9;
 const cols = 14;
 const tileWidth = 104;
 const tileHeight = 88;
@@ -48,7 +48,7 @@ class Board {
     n_tiles = Math.min(cols * rows, n_tiles);
 
     this.grid = new Grid(rows, cols);
-    this.setupTiles(n_tiles, rows, cols);
+    this.setupTiles(n_tiles, rows, cols, company.player);
     this.setupPlayers(players);
     this.centerMap();
 
@@ -57,18 +57,19 @@ class Board {
     //this.debug();
   }
 
-  setupTiles(n_tiles, rows, cols) {
+  setupTiles(n_tiles, rows, cols, player) {
     // generate the board
     this.center = new Position(Math.round(rows/2), Math.round(cols/2));
     this.tileGroup = this.game.add.group();
-    var tilePositions = [this.center];
-    this.placeTileAt(Tile.random(), this.center);
+    var tilePositions = [this.center],
+        tile = player.seenMarket ? Tile.random() : new Tile.Income();
+    this.placeTileAt(tile, this.center);
 
     while (tilePositions.length < n_tiles) {
       var pos = _.chain(tilePositions)
         .map(p => this.grid.adjacentNoTilePositions(p))
         .flatten().sample().value();
-      this.placeTileAt(Tile.random(), pos);
+      this.placeTileAt(player.seenMarket ? Tile.random() : new Tile.Income(), pos);
       tilePositions.push(pos);
     }
   }
@@ -302,6 +303,8 @@ class Board {
       colorTween.start();
       self.tileTweens.push(colorTween);
     });
+
+    this._onDragStart();
   }
 
   onDragUpdatePiece(piece, pointer) {

diff --git a/app/market/Market.js b/app/market/Market.js
@@ -32,6 +32,13 @@ class Market {
 
     var competitorProduct = Competitor.createProduct(product, competitor);
 
+    // weak competitor for first market attempt
+    if (!player.seenMarket) {
+      competitorProduct.levels.strength = 0;
+      competitorProduct.levels.movement = 0;
+      competitorProduct.levels.quantity = 0;
+    }
+
     this.players = [
       new Player(player.company, true, 0x1C1FE8),
       new Player(competitor, false, 0xF7202F)
@@ -125,12 +132,13 @@ class Market {
         this.AI.takeTurn(function() {
           // add a little delay
           // otherwise transition is too fast
+          // longer delay on first market attempt
           setTimeout(function() {
             self.startTurn(self.humanPlayer)
             if (self.shouldEndGame()) {
               self.handleEndGame();
             }
-          }, 800);
+          }, this.player.seenMarket ? 800 : 1400);
         });
       }, 1000);
     }

diff --git a/css/market.sass b/css/market.sass
@@ -167,3 +167,23 @@
     clear: both
     overflow: hidden
     margin: 2em 0
+
+.market-tutorial
+  display: none
+  position: fixed
+  bottom: 1em
+  background: beige
+  width: 40em
+  right: 2em
+  border-radius: 0.4em
+  box-shadow: 3px 3px 0px rgba(0,0,0,0.2)
+  cursor: pointer
+  p
+    font-size: 1.2em
+    margin: 0
+    padding: 1em
+  img
+    float: left
+    width: 120px
+    margin-right: 1em
+    border-radius: 0.4em 0 0 0.4em

diff --git a/app/Player.js b/app/Player.js
@@ -115,7 +115,9 @@ class Player {
       onboarding: onboarding,
       challenges: _.map(challenges, c => _.extend({
         finished: false
-      }, c))
+      }, c)),
+
+      seenMarket: false
 
     }, data);
   }
@@ -200,6 +202,7 @@ class Player {
     this.onboarding = _.each(this.onboarding, function(v, k) {
       onboarding[k].finished = true;
     });
+    this.seenMarket = true;
   }
 }
 

diff --git a/app/Onboarding.js b/app/Onboarding.js
@@ -27,8 +27,6 @@ class Onboarding {
           satisfied = _.every(o.conditions, c => Condition.satisfied(c, player));
         } else if (o.popup) {
           satisfied = Popup.current && Popup.current.title == o.popup;
-        } else if (o.market) {
-          satisfied = manager.game.state.current == 'Market';
         }
         return !o.finished && satisfied;
       });

diff --git a/app/states/Boot.js b/app/states/Boot.js
@@ -43,6 +43,7 @@ class Boot extends Phaser.State {
     game.state.add('Onboarding', new Onboarding(game, player));
 
     if (DEBUG_MARKET) {
+      player.seenMarket = false;
       Debug.debugMarket(game, player);
 
     } else {

diff --git a/app/debug/Debug.js b/app/debug/Debug.js
@@ -35,9 +35,9 @@ var testProduct = {
   progress: 1,
   requiredProgress: 1,
   levels: {
-    quantity: 1,
+    quantity: 0,
     strength: 2,
-    movement: 1
+    movement: 0
   },
   revenueScore: 1
 };

diff --git a/css/onboarding.sass b/css/onboarding.sass
@@ -76,6 +76,8 @@
   line-height: 1.4
   background: #e8e8e8
   color: #111
+
+.alert-mentor, .market-tutorial
   em
     color: #fff
     &.ui-item

diff --git a/css/alerts.sass b/css/alerts.sass
@@ -1,6 +1,8 @@
 .alert
   .tasks
     font-size: 0.8em
+
+.alert, .market-tutorial
   em
     background: #515f78
     padding: 0.1em 0.3em
